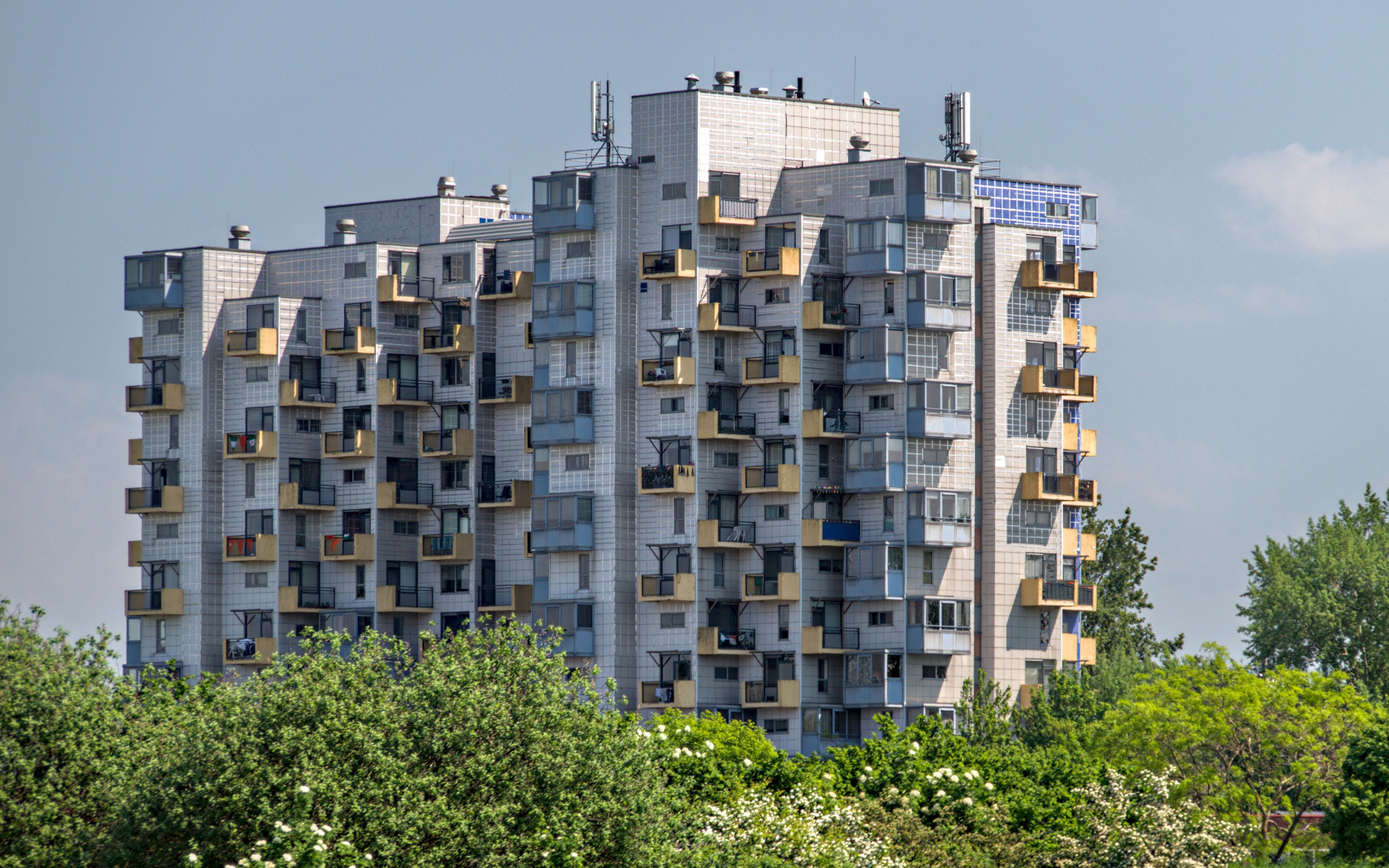
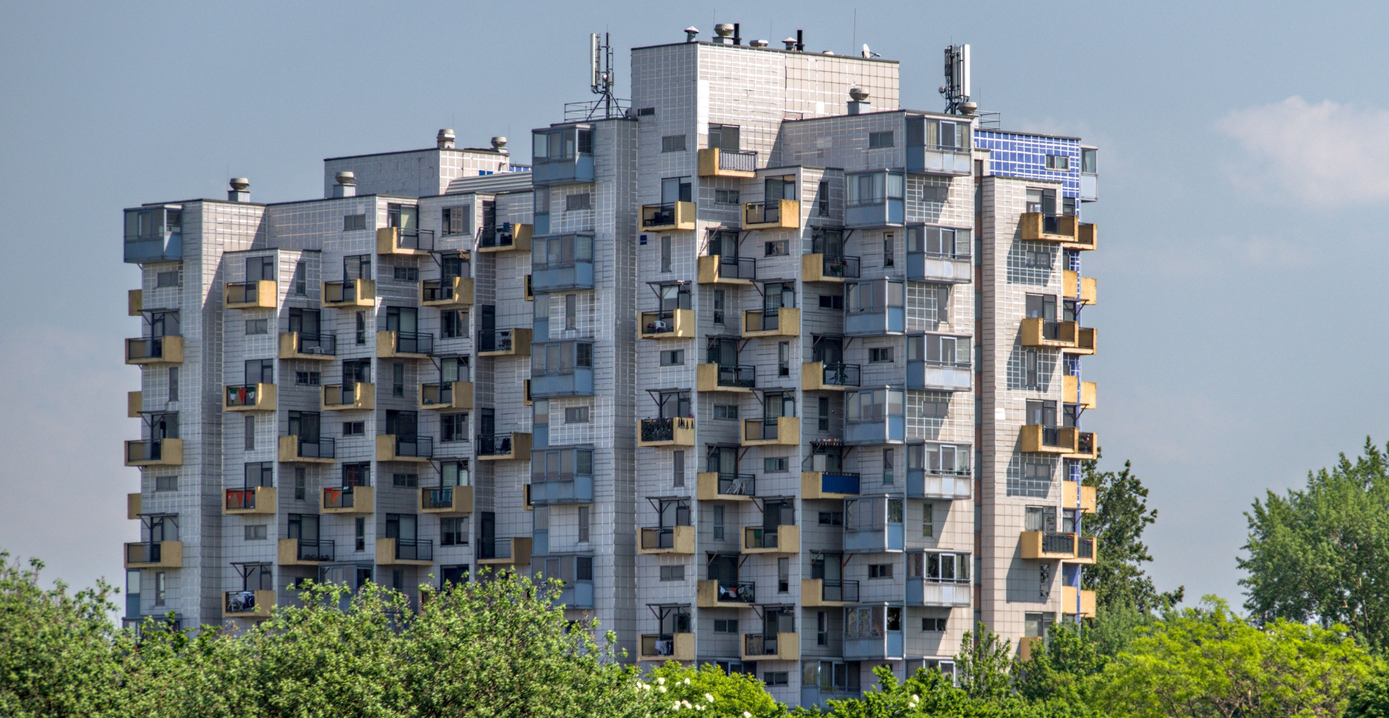
правки по дизайну новые кнопки

diff --git a/src/pages/DetailHouses.jsx b/src/pages/DetailHouses.jsx
@@ -1,7 +1,9 @@
-import { useParams } from 'react-router-dom';
+import { useParams, useNavigate } from 'react-router-dom';
 import './DetailHouses.scss'
 
 function DetailHouses({tableHouses, contracts, protocols, documents}) {
+
+    const navigate = useNavigate();
 
     const params = useParams();
     const id = parseInt(params.housesId);
@@ -20,6 +22,7 @@ function DetailHouses({tableHouses, contracts, protocols, documents}) {
     
     return(
         <div className='detailHouse'>
+            <button className='backButton' onClick={() => navigate('/houses')}><img alt='' src='../img/left.png' /></button>
             <h2>Информация по дому:</h2>
             <div className='infoHouse'>
                 <div>
@@ -38,7 +41,7 @@ function DetailHouses({tableHouses, contracts, protocols, documents}) {
             <h3>Документация по дому:</h3>
             {currentContracts.map((contract) => {
                 return(
-                    <div className='contracts' key={contract.house_id}><p>{contract.txt}</p><a className='linkPdf' href={contract.link}>Скачать<img alt='' src='../img/pdfIcon.png'/></a></div>
+                    <div className='contracts' key={contract.house_id}><p>{contract.txt}</p><a className='linkPdf' href={contract.link} target="_blank" rel="noreferrer">Скачать<img alt='' src='../img/pdfIcon.png'/></a></div>
                 )
             })}
             <b>Протоколы общего собрания:</b>
@@ -55,10 +58,10 @@ function DetailHouses({tableHouses, contracts, protocols, documents}) {
                     {currentProtocols.map((protocol) => {
                         return(
                             <tr key={protocol.id}>
-                                <th>{protocol.name}</th>
-                                <th>{protocol.number}</th>
-                                <th>{protocol.date}</th>
-                                <th><a className='linkPdf' href={protocol.link}>Скачать<img alt='' src='../img/pdfIcon.png'/></a></th>
+                                <td>{protocol.name}</td>
+                                <td>{protocol.number}</td>
+                                <td>{protocol.date}</td>
+                                <td><a className='linkPdf' href={protocol.link} target="_blank" rel="noreferrer">Скачать<img alt='' src='../img/pdfIcon.png'/></a></td>
                             </tr>
                         )
                     })}
@@ -78,10 +81,10 @@ function DetailHouses({tableHouses, contracts, protocols, documents}) {
                     {currentDocuments.map((document) => {
                         return(
                             <tr key={document.id}>
-                                <th>{document.name}</th>
-                                <th>{document.number}</th>
-                                <th>{document.date}</th>
-                                <th><a className='linkPdf' href={document.link}>Скачать<img alt='' src='../img/pdfIcon.png'/></a></th>
+                                <td>{document.name}</td>
+                                <td>{document.number}</td>
+                                <td>{document.date}</td>
+                                <td><a className='linkPdf' href={document.link} target="_blank" rel="noreferrer">Скачать<img alt='' src='../img/pdfIcon.png'/></a></td>
                             </tr>
                         )
                     })}

diff --git a/src/pages/MainW.jsx b/src/pages/MainW.jsx
@@ -40,10 +40,10 @@ function Main(){
                             <h2>свидетельства</h2>
                         </div> 
                         <ul>
-                            <li><a href=''>Лицензия на осуществление предпринимательской деятельности по управлению МКД по Ставропольскому краю</a></li>
-                            <li><a href=''>Свидетельство о внесении в Единый реестр управления многоквартирными домами</a></li>
-                            <li><a href=''>Свидетельство ИНН от 26.08.2024</a></li>
-                            <li><a href=''>Свидетельство ОГРН от 26.08.2024</a></li>
+                            <li><a href='' target="_blank">Лицензия на осуществление предпринимательской деятельности по управлению МКД по Ставропольскому краю</a></li>
+                            <li><a href='' target="_blank">Свидетельство о внесении в Единый реестр управления многоквартирными домами</a></li>
+                            <li><a href='https://drive.google.com/file/d/1SWkd3kRKAAPIKZcQ0ZcqejFAEKC_sWvR/view?usp=drive_link' target="_blank">Свидетельство ИНН от 26.08.2024</a></li>
+                            <li><a href='https://drive.google.com/file/d/18gZhrdlelmZnBbYT7NzNFW5fthkJR2h4/view?usp=drive_link' target="_blank">Свидетельство ОГРН от 26.08.2024</a></li>
                         </ul>
                     </div>
                 </div>

diff --git a/src/pages/Houses.jsx b/src/pages/Houses.jsx
@@ -1,7 +1,9 @@
 import './Houses.scss'
-import { Link } from 'react-router-dom';
+import { useNavigate } from 'react-router-dom';
 
 function Houses({tableHouses}){
+
+    const navigate = useNavigate();
 
     return(
         <div>
@@ -21,12 +23,12 @@ function Houses({tableHouses}){
                     </thead>
                     <tbody>
                     {tableHouses.map((house) => (
-                        <tr key={house.id}>
-                            <td><Link to={`/houses/${house.id}`}>{house.address}</Link></td>
-                            <td>{house.date}</td>
-                            <td>{house.area}</td>
-                            <td>{house.tariff}</td>
-                        </tr>
+                            <tr style={{cursor: 'pointer'}} key={house.id} onClick={() => navigate(`/houses/${house.id}`)}>
+                                <td>{house.address}</td>
+                                <td>{house.date}</td>
+                                <td>{house.area}</td>
+                                <td>{house.tariff}</td>
+                            </tr>
                         ))}
                     </tbody>
                 </table>

diff --git a/src/index.scss b/src/index.scss
@@ -21,6 +21,29 @@ button {
   cursor: pointer;
 }
 
+.backButton{
+  position: relative;
+  left: -47vw;
+  top: 35px;
+}
+
+.buttonUp {
+  position: fixed;
+  bottom: 20px;
+  right: 2vw;
+  padding: 5px;
+  width: 37px;
+  border-radius: 50%;
+  transition: 0.5s ;
+  //background-color: rgb(0, 255, 115);
+  opacity: 0.5;
+}
+
+.buttonUp:hover {
+  background-color: rgb(186, 186, 186);
+  opacity: 0.4;
+}
+
 a {
   text-decoration: none;
   color: rgb(65, 65, 65);
@@ -52,22 +75,24 @@ h2 {
 table {
   margin-top: 20px;
   margin-bottom: 60px;
-  max-width: 1100px;
+  width: 80%;
   font-size: inherit;
+  //border-collapse: collapse;
   thead {
     background-color: rgb(226, 255, 195);
     font-weight: 200;
   }
   th {
     border: 2px solid rgb(180, 180, 180);
-    padding: 1vw;
+    padding: 0.5vw 1vw;
   }
   td {
-    padding: 1vw;
+    text-align: center;
+    padding: 0.3vw;
     border: 1px solid rgb(180, 180, 180);
   }
   a {
-    margin: 2px;
+    margin: 0;
   }
 
   tbody {
@@ -86,6 +111,9 @@ table {
 @media (max-width: 768px) {
   body {
     font-size: 16px;
+  }
+  table {
+    width: auto;
   }
 }
 

diff --git a/src/pages/DetailNews.jsx b/src/pages/DetailNews.jsx
@@ -1,8 +1,10 @@
 import React from "react"
-import { useParams } from 'react-router-dom'
+import { useNavigate, useParams } from 'react-router-dom'
 import './DetailNews.scss'
 
 function DetailNews({dataNews, reports}) {
+    const navigate = useNavigate();
+
     const params = useParams();
     const id = parseInt(params.newsId);
 
@@ -25,6 +27,7 @@ function DetailNews({dataNews, reports}) {
     return (
         
         <div className="detailNews">
+            <button className="backButton" onClick={() => navigate('/news')}><img alt="" src='../img/left.png' /></button>
             <div>
                 <p>{currentNews.date}</p>  
                 <b>{currentNews.title}</b>               
@@ -44,7 +47,6 @@ function DetailNews({dataNews, reports}) {
                     })
                 )}  
             </div>
-            
         </div>
     );
 }

diff --git a/src/pages/MainW.scss b/src/pages/MainW.scss
@@ -68,7 +68,7 @@ h2 {
 }
 
 .docs {
-    padding: 4vw;
+    padding: 0 4vw;
     padding-bottom: 0px;
     min-height: 90vh;
     flex-wrap: wrap-reverse;
@@ -79,13 +79,12 @@ h2 {
         position: relative;
         width: 500px;
         object-fit: cover;
-        margin-left: -60px;
+        margin-left: -4vw;
     }
     >div {
-        width: 430px;
+        max-width: 630px;
         margin-left: 4vw;
-        margin-right: 4vw;
-        margin-top: 50px;
+        margin-top: 80px;
         padding-bottom: 20px;
     }
     .titleDocs {
@@ -156,6 +155,9 @@ ul {
     .docs {
         img {
             display: none;
+        }
+        >div {
+            margin-right: 4vw;
         }
     }
 }

diff --git a/src/App.js b/src/App.js
@@ -40,6 +40,13 @@ function App() {
         fetchData();
     }, []);
 
+    const scrollTop = () => {
+        window.scrollTo({
+            top: 0,
+            behavior: 'smooth'
+        })
+    }
+
     return (
         <div>
             <Header />
@@ -53,6 +60,7 @@ function App() {
                     <Route path="/houses/:housesId" element={<DetailHouses tableHouses = {tableHouses} contracts = {contracts} protocols = {protocols} documents = {documents}/>} />
                 </Routes>
             </div>
+            <button className='buttonUp' onClick={() => scrollTop()}><img alt='' src={`${process.env.PUBLIC_URL}/img/up.png`}/></button>
         </div>
     );
 }

diff --git a/src/pages/DetailNews.scss b/src/pages/DetailNews.scss
@@ -6,18 +6,17 @@
         display: flex;
         flex-direction: column;
         align-items: center;
-        width: 80vw;
+        width: 70vw;
         img {
             border-radius: 10px;
-            width: 100%;
-            margin: auto;
+            width: 80%;
         }
         b {
             display: block;
             margin-bottom: 30px;
         }
         p {
-            margin: 4vw;
+            margin: 2vw;
         }
     }
 
@@ -39,3 +38,14 @@
     
 }
 
+@media (max-width: 768px) {
+    .detailNews {
+        >div{
+            width: 80vw;
+            img {
+                width: 100%;
+            }
+        }
+        
+    }
+}

diff --git a/src/pages/News.scss b/src/pages/News.scss
@@ -91,4 +91,7 @@
     .newsCard {
         width: 350px;
     }
+    .newsCard:hover {
+        transform: none;
+    }
 }
